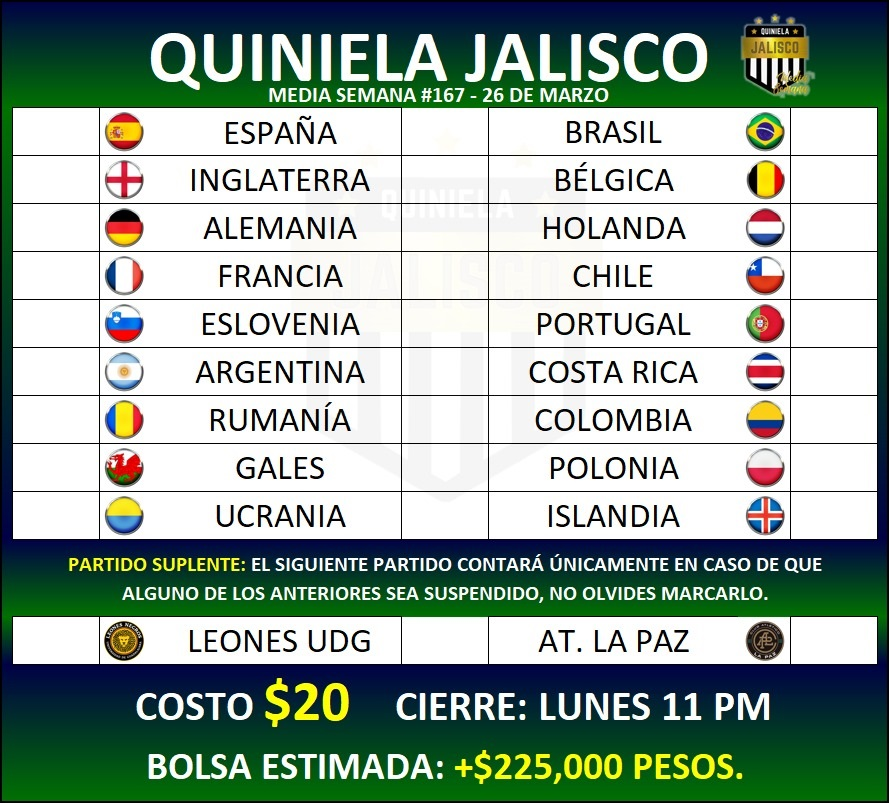
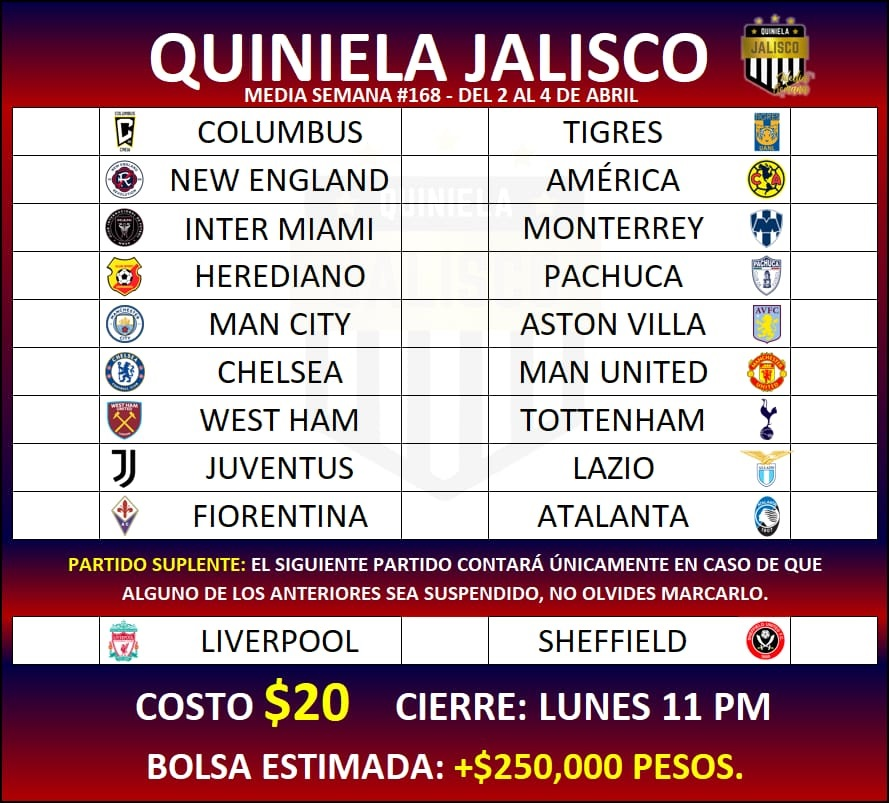
Media Semana #168

diff --git a/MediaSemana/stylesmSusp.css b/MediaSemana/stylesmSusp.css
@@ -94,8 +94,8 @@ body{
     margin-top: 9%;
     border: solid 1px black;
     border-radius: 0 0 14px 14px;
-    background: -webkit-linear-gradient(0.5turn, rgb(0, 64, 30), rgb(0 8 65) 80%);
-    background: linear-gradient(0.5turn, rgb(0, 64, 30), rgb(0 8 65) 80%);
+    background: -webkit-linear-gradient(0.5turn, rgb(96 0 33), rgb(0 8 65) 80%);
+    background: linear-gradient(0.5turn, rgb(96 0 33), rgb(0 8 65) 80%);
 }
 
 .text-lg{
@@ -290,7 +290,7 @@ h6{
 }
 
 #cantidad:before{
-    content:' +$225,000 pesos';
+    content:' +$250,000 pesos';
     color: yellow;
     white-space:pre;
 }
